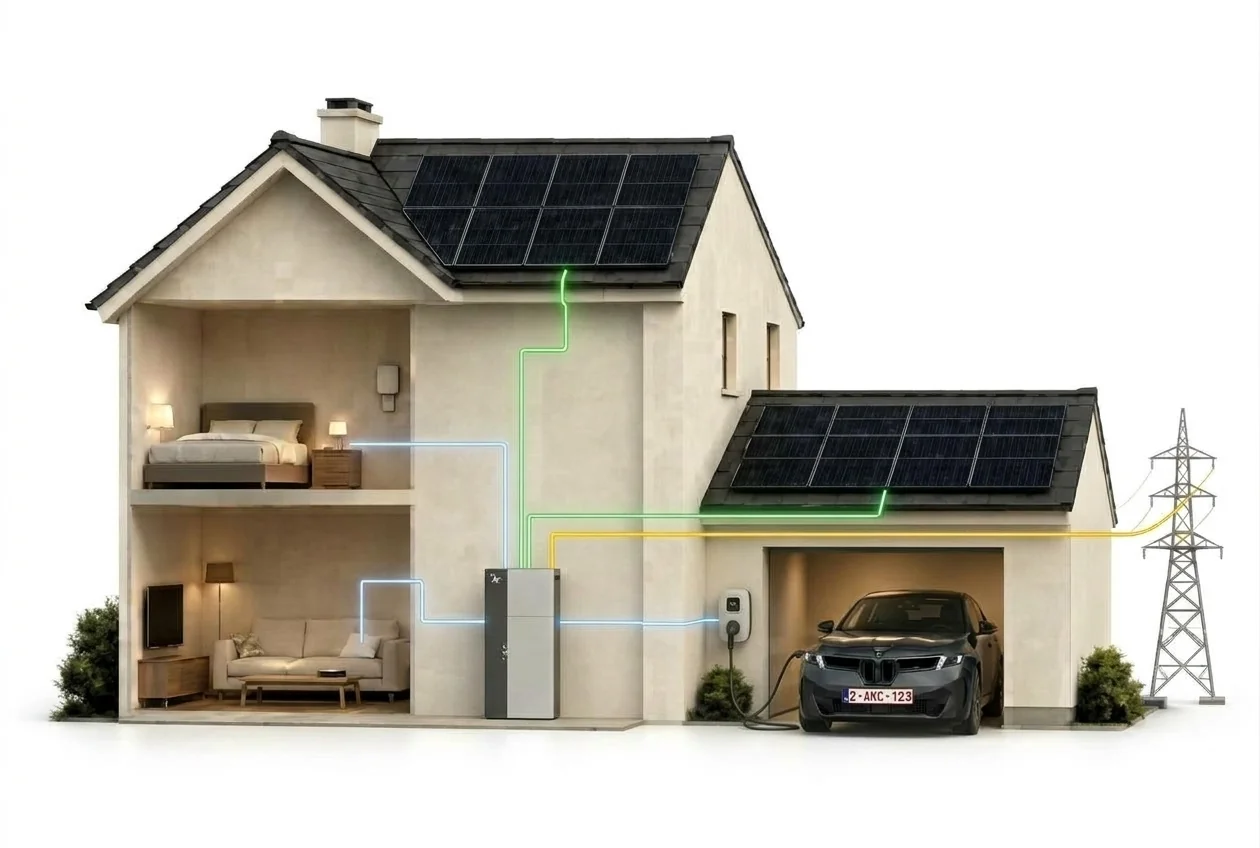
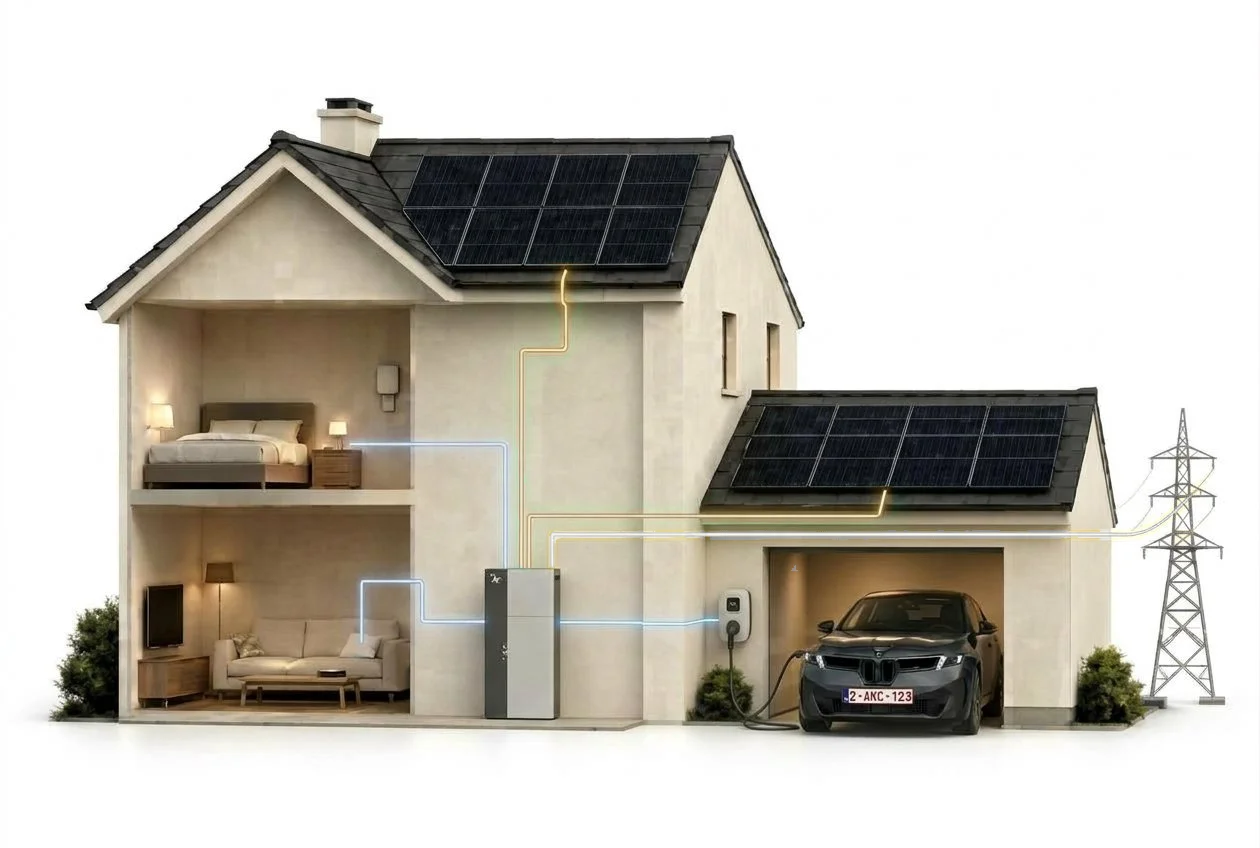
Energy flow in the chart colours; orange feed-in
- New house illustration (same 1260x848 layout): solar cables drawn yellow, the grid cable neutral.
- The flow scene uses the chart colours: solar yellow, house grey-blue, EV charger blue (with a wire that stays visible).
- The grid wire is coloured by direction: magenta while importing, orange while feeding in, grey when idle; the label dot follows.
- Feed-in is orange in the charts and tiles too (was yellow, too close to solar).

Changed region(s): [[0.4024, 0.5519, 0.9286, 0.6745], [0.4024, 0.3066, 0.4643, 0.5519], [0.9286, 0.5825, 0.9595, 0.6132]]

diff --git a/custom_components/alpha_ess_local/frontend/alpha-ess-panel.js b/custom_components/alpha_ess_local/frontend/alpha-ess-panel.js
@@ -15,7 +15,7 @@ const COLOR = {
   charge: "#2dd4bf",
   discharge: "#99f6e4",
   import: "#c026d3",
-  export: "#facc15",
+  export: "#f97316",
   solar: "#fbbf24",
   house: "#94a3b8",
   battery: "#2dd4bf",
@@ -331,7 +331,22 @@ const SCENE_PATHS = {
   // battery -> EV charger on the garage wall
   ev: ["M558,622 L717,622"],
 };
-const SCENE_COLOR = { solar: "#2fd25a", extraPv: "#2fd25a", house: "#5aa8ff", grid: "#f2c230", ev: "#9333ea" };
+// Same colours as the charts. The grid's depends on direction: magenta
+// while importing, orange while feeding in (see gridColour).
+const SCENE_COLOR = {
+  solar: "#fbbf24",
+  extraPv: "#fbbf24",
+  house: "#94a3b8",
+  ev: "#5aa8ff",
+  gridImport: "#c026d3",
+  gridExport: "#f97316",
+  gridIdle: "#cbd5e1",
+};
+
+function gridColour(watts) {
+  if (watts === null || Math.abs(watts) < 15) return SCENE_COLOR.gridIdle;
+  return watts > 0 ? SCENE_COLOR.gridImport : SCENE_COLOR.gridExport;
+}
 
 // Where each label points at in the image (x, y in image pixels). Labels sit
 // in a band above or below the image, straight above/below their target,
@@ -349,16 +364,16 @@ const SCENE_TARGETS = {
 // A solid wire over a cable the image draws in another colour (the EV
 // charger's is drawn blue, like the rooms'), so it reads as its own
 // circuit even when nothing flows; sceneFlow's pulses run on top of it.
-function sceneCable(key) {
+function sceneCable(key, colour = SCENE_COLOR[key]) {
   return SCENE_PATHS[key]
-    .map((d) => `<path class="cable" d="${d}" style="--c:${SCENE_COLOR[key]}" filter="url(#scene-glow)"/>`)
+    .map((d) => `<path class="cable" d="${d}" style="--c:${colour}" filter="url(#scene-glow)"/>`)
     .join("");
 }
 
-function sceneFlow(key, watts, reverse = false) {
+function sceneFlow(key, watts, reverse = false, colour = SCENE_COLOR[key]) {
   if (watts === null || Math.abs(watts) < 15) return "";
   const dur = Math.max(1.2, 4 - Math.log10(Math.abs(watts)) * 0.8).toFixed(2);
-  return `<g class="flow ${reverse ? "rev" : ""}" style="--c:${SCENE_COLOR[key]};--dur:${dur}s" filter="url(#scene-glow)">${SCENE_PATHS[
+  return `<g class="flow ${reverse ? "rev" : ""}" style="--c:${colour};--dur:${dur}s" filter="url(#scene-glow)">${SCENE_PATHS[
     key
   ]
     .map((d) => `<path class="pulse" pathLength="100" d="${d}"/><path class="pulse core" pathLength="100" d="${d}"/>`)
@@ -905,7 +920,7 @@ class AlphaEssPanel extends HTMLElement {
       },
       {
         key: "grid",
-        color: SCENE_COLOR.grid,
+        color: gridColour(grid),
         value: fmtW(grid === null ? null : Math.abs(grid)),
         name: gridName,
         entity: this._entities.grid_power,
@@ -967,7 +982,8 @@ class AlphaEssPanel extends HTMLElement {
             ${hasExtraPv ? sceneFlow("extraPv", extraPv) : ""}
             ${sceneFlow("house", rooms)}
             ${hasEv ? sceneCable("ev") + sceneFlow("ev", ev) : ""}
-            ${sceneFlow("grid", grid, grid !== null && grid > 0)}
+            ${sceneCable("grid", gridColour(grid))}
+            ${sceneFlow("grid", grid, grid !== null && grid > 0, gridColour(grid))}
           </svg>
         </div>
         <div class="scene-band bottom">${band("bottom")}</div>
@@ -2259,7 +2275,7 @@ const STYLE = `
     animation: run var(--dur, 2.4s) linear infinite;
   }
   .pulse.core { stroke: #fff; stroke-width: 2.2; }
-  .cable { fill: none; stroke: var(--c); stroke-width: 6; stroke-linecap: round; stroke-linejoin: round; opacity: 0.9; }
+  .cable { fill: none; stroke: var(--c); stroke-width: 3.5; stroke-linecap: round; stroke-linejoin: round; opacity: 0.95; }
   .flow.rev .pulse { animation-direction: reverse; }
   @keyframes run { from { stroke-dashoffset: 100; } to { stroke-dashoffset: 0; } }
   @media (prefers-reduced-motion: reduce) { .pulse { animation-duration: 6s; } }
